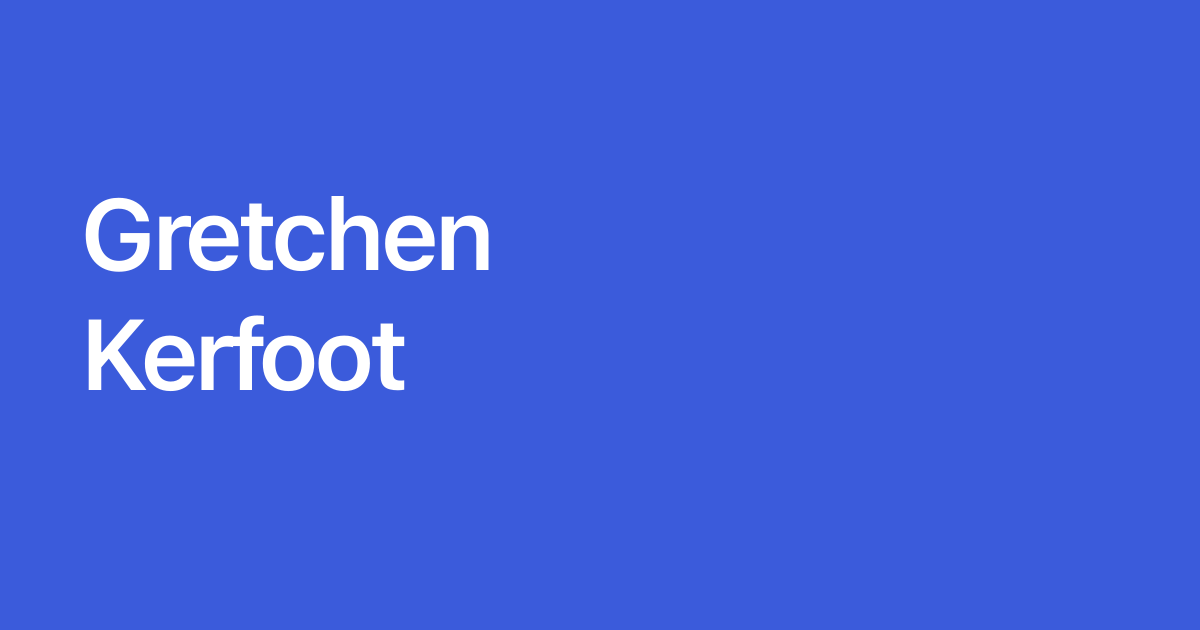
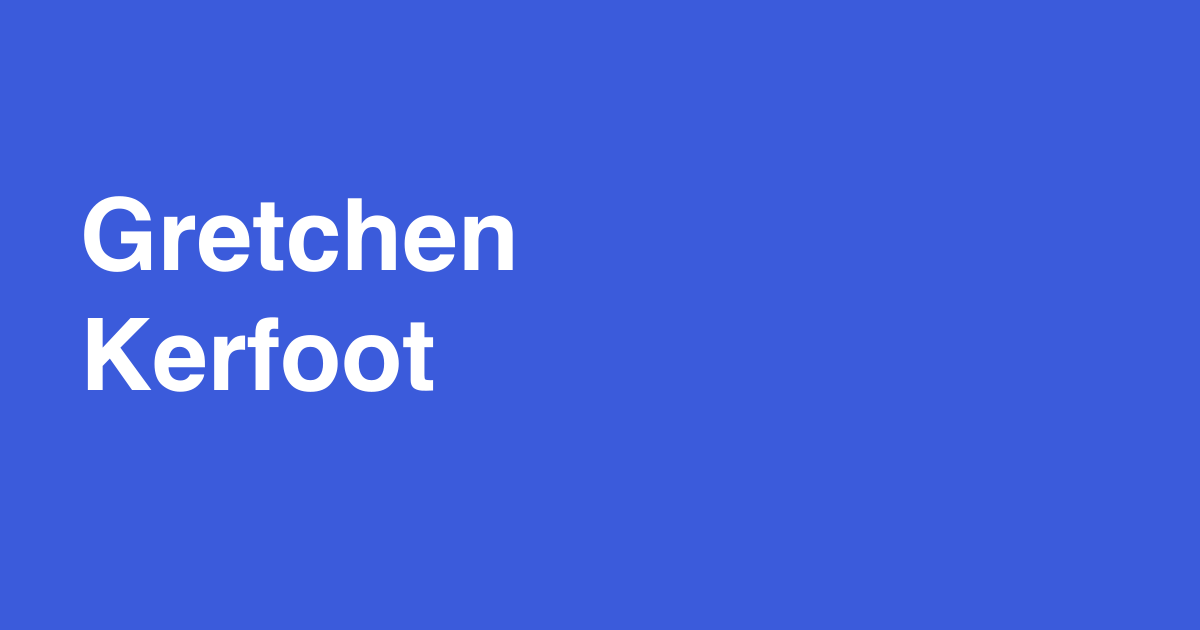
Update OG image with embedded Sora font
- Embed Sora SemiBold font directly in SVG
- Store font file in project for reproducibility

Changed region(s): [[0.0617, 0.3016, 0.4317, 0.4524], [0.0617, 0.4825, 0.37, 0.6333], [0.0925, 0.3016, 0.1233, 0.3317]]

diff --git a/scripts/create-og-image.js b/scripts/create-og-image.js
@@ -1,9 +1,22 @@
 import sharp from 'sharp';
+import { readFileSync } from 'fs';
+
+// Read the base64 encoded Sora font
+const fontBase64 = readFileSync(new URL('./fonts/sora-semibold.b64', import.meta.url), 'utf-8').trim();
 
 const svg = `<svg xmlns="http://www.w3.org/2000/svg" width="1200" height="630" viewBox="0 0 1200 630">
+  <defs>
+    <style>
+      @font-face {
+        font-family: 'Sora';
+        font-weight: 600;
+        src: url('data:font/truetype;base64,${fontBase64}') format('truetype');
+      }
+    </style>
+  </defs>
   <rect width="1200" height="630" fill="#3b5bdb"/>
-  <text x="80" y="270" font-family="Sora, system-ui, -apple-system, sans-serif" font-size="100" font-weight="600" fill="white">Gretchen</text>
-  <text x="80" y="390" font-family="Sora, system-ui, -apple-system, sans-serif" font-size="100" font-weight="600" fill="white">Kerfoot</text>
+  <text x="80" y="270" font-family="Sora" font-size="100" font-weight="600" fill="white">Gretchen</text>
+  <text x="80" y="390" font-family="Sora" font-size="100" font-weight="600" fill="white">Kerfoot</text>
 </svg>`;
 
 sharp(Buffer.from(svg))
